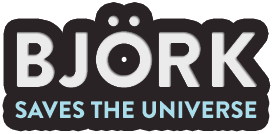
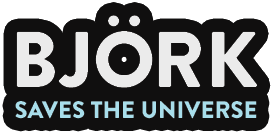
Push 9
Hover state added to Play buttons. Title assets updated to have a consistent shade of black.

diff --git a/gamecover.js b/gamecover.js
@@ -17,6 +17,16 @@ var r10 = 0;
 var r11 = 0;
 var r12 = 0;
 
+//Button TOP RGB Vars
+var btnTopR = 255;
+var btnTopG = 208;
+var btnTopB = 79;
+
+//Button TOP RGB Vars
+var btnBtmR = 207;
+var btnBtmG = 159;
+var btnBtmB = 43;
+
 function gameCover(){
 
   //drkblue Ring
@@ -173,13 +183,13 @@ function gameCover(){
 //start button funtion
 function startButton(){
   //holding shape bevel
-  fill(207,159,43);
+  fill(btnBtmR, btnBtmG, btnBtmB);
   noStroke();
   rectMode(CENTER);
   rect(width/2, height/2+100, 115, 40, 50);
 
   //holding shape
-  fill(255,208,79);
+  fill(btnTopR, btnTopG, btnTopB);
   noStroke();
   rectMode(CENTER);
   rect(width/2, height/2+95, 115, 40, 50);
@@ -188,6 +198,17 @@ function startButton(){
   translate(width/2, height/2);
   imageMode(CENTER);
   image(play, 0, 95);
+
+  //Rollover State brightens button
+  if(mouseX < width/2+60 && mouseX > width/2-60 && mouseY < height/2+115 && mouseY > height/2+75 && state1 === true){
+    btnTopR = 255;
+    btnTopG = 225;
+    btnTopB = 115;
+  } else {
+    btnTopR = 255;
+    btnTopG = 208;
+    btnTopB = 79;
+  }
 }
 
 

diff --git a/gameover.js b/gameover.js
@@ -160,13 +160,13 @@ function restartButton(){
   scoreBoard();
 
   //holding shape bevel
-  fill(207,159,43);
+  fill(btnBtmR, btnBtmG, btnBtmB);
   noStroke();
   rectMode(CENTER);
   rect(width/2, height/2+100, 115, 40, 50);
 
   //holding shape
-  fill(255,208,79);
+  fill(btnTopR, btnTopG, btnTopB);
   noStroke();
   rectMode(CENTER);
   rect(width/2, height/2+95, 115, 40, 50);
@@ -175,5 +175,16 @@ function restartButton(){
   translate(width/2, height/2);
   imageMode(CENTER);
   image(play, 0, 95);
+
+    //Rollover State brightens button
+  if(mouseX < width/2+60 && mouseX > width/2-60 && mouseY < height/2+115 && mouseY > height/2+75 && gameOverBool === true){
+    btnTopR = 255;
+    btnTopG = 225;
+    btnTopB = 115;
+  } else {
+    btnTopR = 255;
+    btnTopG = 208;
+    btnTopB = 79;
+  }
 
 }
